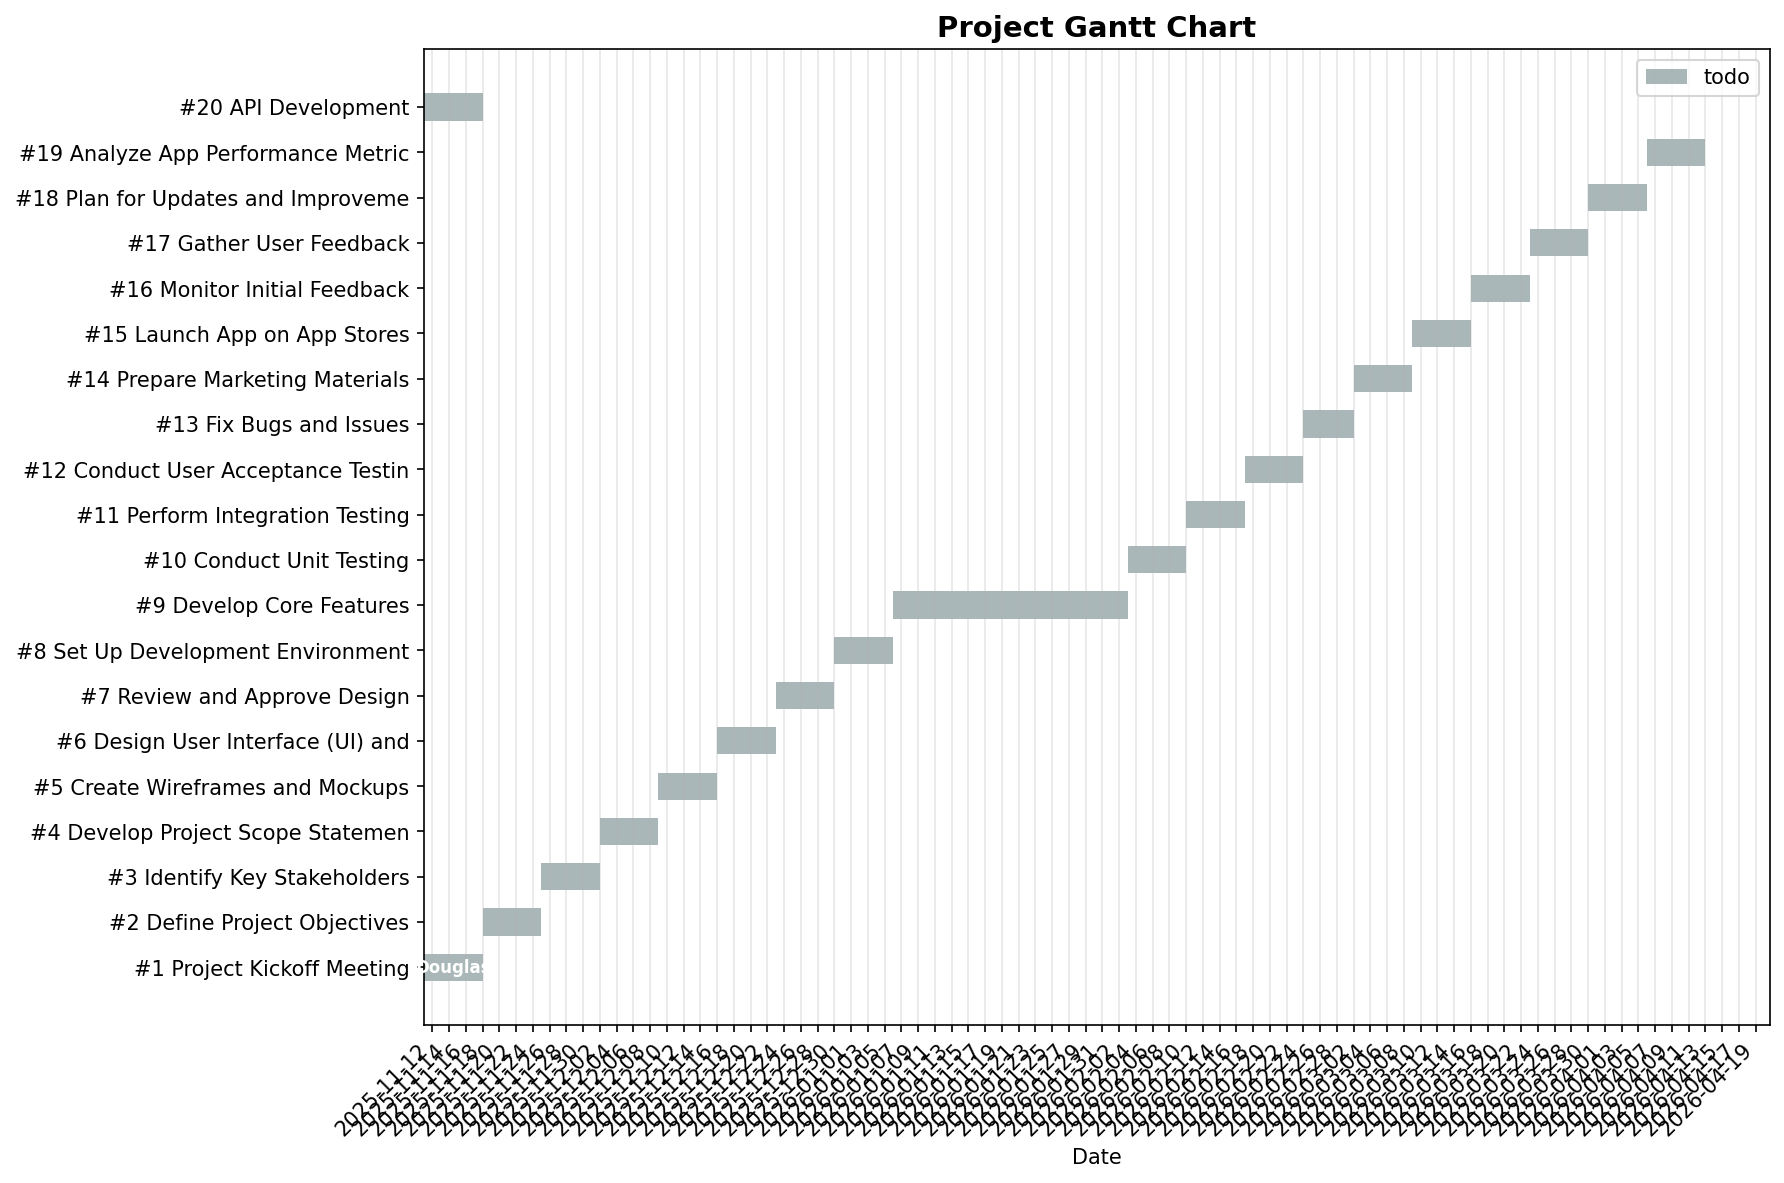
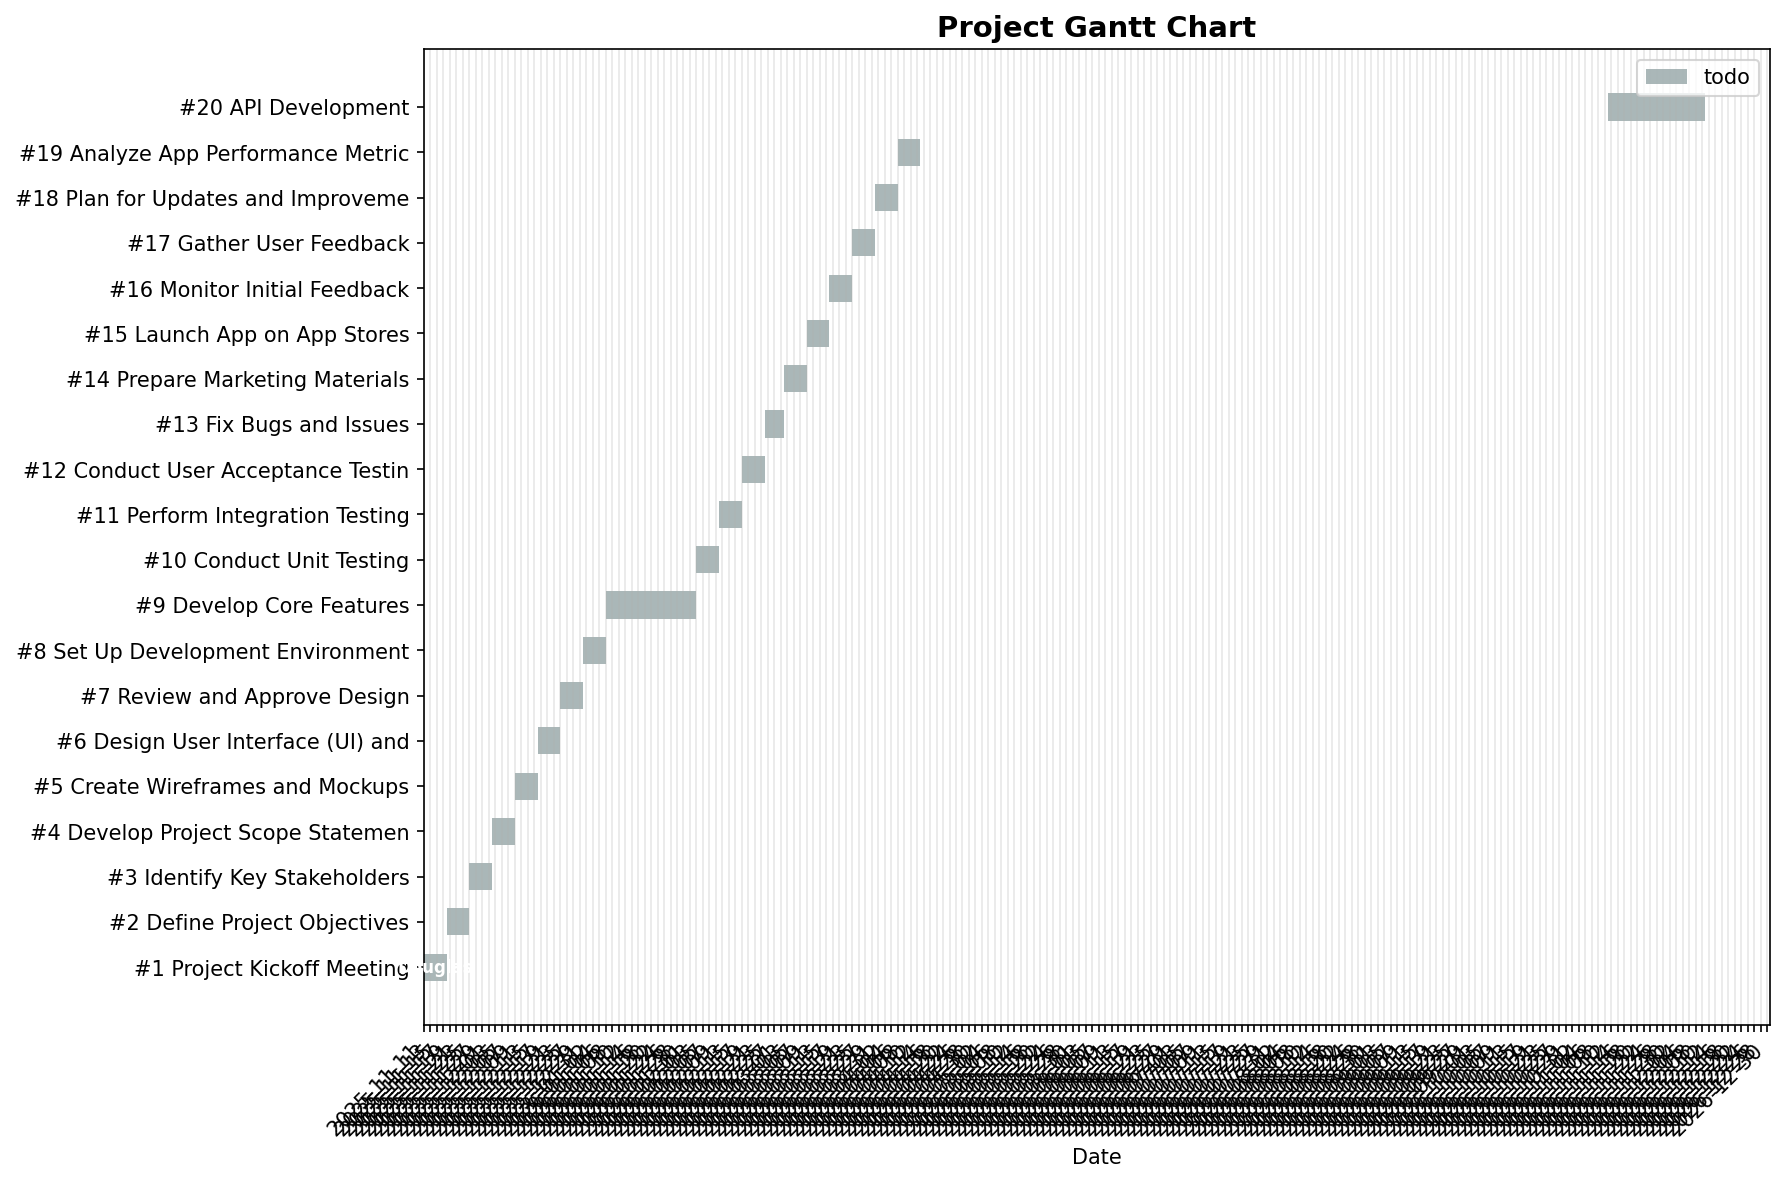
feat(plan/csv): add plan.csv mirror and CSV import command
Add a spreadsheet-friendly plan.csv mirror and CLI/sync support to let users edit the plan in Excel/Sheets and import changes back into 01_plan.json. Updated README with usage and validation rules for /plan --update-from-csv and pm plan --update-from-csv, added CLI hookup (import_plan_from_csv, save_plan) and help text. Import validates IDs, dependencies, and dates, rewrites the JSON source of truth, and regenerates the Gantt. Also regenerated project artifacts: updated task 20 dates, refreshed focus board timestamp, and updated gantt image.

diff --git a/src/pm_agent/tools.py b/src/pm_agent/tools.py
@@ -1,5 +1,6 @@
 """Tools for reading and writing project files."""
 
+import csv
 import json
 from datetime import datetime, date
 from pathlib import Path
@@ -18,6 +19,20 @@ from .analysis import (
 def get_project_root() -> Path:
     """Get the current project root directory."""
     return Path.cwd()
+
+
+PLAN_CSV_FIELDS = [
+    "id",
+    "title",
+    "assignee",
+    "start_date",
+    "due_date",
+    "status",
+    "dependencies",
+    "optimistic_days",
+    "likely_days",
+    "pessimistic_days",
+]
 
 
 def ensure_project_files():
@@ -46,6 +61,11 @@ def ensure_project_files():
     plan_path = root / "01_plan.json"
     if not plan_path.exists():
         plan_path.write_text("[]")
+        export_plan_to_csv(ProjectPlan())
+    else:
+        csv_path = root / "plan.csv"
+        if not csv_path.exists():
+            export_plan_to_csv(load_plan())
 
     # Create followups if not exists
     followups_path = root / "02_followups.json"
@@ -122,6 +142,112 @@ def save_plan(plan: ProjectPlan):
     plan_path = root / "01_plan.json"
 
     plan_path.write_text(json.dumps(plan.to_json_list(), indent=2))
+    export_plan_to_csv(plan)
+
+
+def _resolve_csv_path(csv_file: Optional[str] = None) -> Path:
+    root = get_project_root()
+    if csv_file:
+        csv_path = Path(csv_file)
+        if not csv_path.is_absolute():
+            csv_path = root / csv_path
+    else:
+        csv_path = root / "plan.csv"
+    csv_path.parent.mkdir(parents=True, exist_ok=True)
+    return csv_path
+
+
+def export_plan_to_csv(plan: ProjectPlan, csv_file: Optional[str] = None):
+    """Write the project plan to a CSV file for manual editing."""
+    csv_path = _resolve_csv_path(csv_file)
+    with open(csv_path, "w", encoding="utf-8", newline="") as handle:
+        writer = csv.DictWriter(handle, fieldnames=PLAN_CSV_FIELDS)
+        writer.writeheader()
+        for task in plan.tasks:
+            writer.writerow({
+                "id": task.id,
+                "title": task.title,
+                "assignee": task.assignee or "",
+                "start_date": task.start_date.isoformat() if task.start_date else "",
+                "due_date": task.due_date.isoformat() if task.due_date else "",
+                "status": task.status,
+                "dependencies": ",".join(str(dep) for dep in task.dependencies),
+                "optimistic_days": task.optimistic_days or "",
+                "likely_days": task.likely_days or "",
+                "pessimistic_days": task.pessimistic_days or "",
+            })
+
+
+def import_plan_from_csv(csv_file: Optional[str] = None) -> ProjectPlan:
+    """Load plan data from a CSV file and return a ProjectPlan object."""
+    csv_path = _resolve_csv_path(csv_file)
+    if not csv_path.exists():
+        raise FileNotFoundError(f"CSV file not found: {csv_path}")
+
+    def parse_date(value: Optional[str]) -> Optional[date]:
+        if not value:
+            return None
+        value = value.strip()
+        if not value:
+            return None
+        # Try ISO format first
+        try:
+            return date.fromisoformat(value)
+        except ValueError:
+            pass
+        # Try common alternatives (e.g., MM/DD/YYYY)
+        for fmt in ("%m/%d/%Y", "%m/%d/%y", "%Y/%m/%d"):
+            try:
+                return datetime.strptime(value, fmt).date()
+            except ValueError:
+                continue
+        raise ValueError(f"Invalid date format '{value}'. Use YYYY-MM-DD or MM/DD/YYYY.")
+
+    def parse_int(value: Optional[str]) -> Optional[int]:
+        if value is None:
+            return None
+        value = value.strip()
+        if not value:
+            return None
+        return int(float(value))
+
+    tasks: List[Task] = []
+    with open(csv_path, "r", encoding="utf-8", newline="") as handle:
+        reader = csv.DictReader(handle)
+        for row in reader:
+            if not row.get("id"):
+                continue
+            try:
+                task_id = int(row["id"])
+            except ValueError as exc:
+                raise ValueError(f"Invalid task ID '{row['id']}' in CSV") from exc
+
+            deps_str = (row.get("dependencies") or "").strip()
+            dependencies: List[int] = []
+            if deps_str:
+                for dep in deps_str.split(","):
+                    dep = dep.strip()
+                    if dep:
+                        try:
+                            dependencies.append(int(dep))
+                        except ValueError as exc:
+                            raise ValueError(f"Invalid dependency '{dep}' for task {task_id}") from exc
+
+            task = Task(
+                id=task_id,
+                title=row.get("title", "").strip() or f"Task {task_id}",
+                assignee=row.get("assignee") or None,
+                start_date=parse_date(row.get("start_date")),
+                due_date=parse_date(row.get("due_date")),
+                status=(row.get("status") or "todo").strip() or "todo",
+                dependencies=dependencies,
+                optimistic_days=parse_int(row.get("optimistic_days")),
+                likely_days=parse_int(row.get("likely_days")),
+                pessimistic_days=parse_int(row.get("pessimistic_days")),
+            )
+            tasks.append(task)
+
+    return ProjectPlan(tasks=tasks)
 
 
 def load_focus_board() -> FocusBoard:

diff --git a/src/pm_agent/cli.py b/src/pm_agent/cli.py
@@ -35,6 +35,8 @@ from .tools import (
     get_project_root,
     load_focus_board,
     save_focus_board,
+    import_plan_from_csv,
+    save_plan,
 )
 from .viz import generate_gantt, render_text_gantt
 
@@ -55,6 +57,7 @@ def show_help():
     console.print("  /status --week       Get AI weekly summary")
     console.print("  /plan                View the plan JSON")
     console.print("  /plan --edit         Edit plan in editor")
+    console.print("  /plan --update-from-csv [file]  Import plan edits from CSV")
     console.print("  /gantt               Display Gantt chart in CLI + save PNG")
     console.print("  /gantt --open        Display chart + save PNG + open file")
     console.print("  /followup <task>     Quick add task")
@@ -128,6 +131,29 @@ def handle_plan_command(args: list):
     """Handle /plan command."""
     edit_mode = "--edit" in args
     plan_path = get_project_root() / "01_plan.json"
+
+    # CSV import flag
+    csv_path = None
+    if "--csv-path" in args:
+        csv_idx = args.index("--csv-path")
+        if csv_idx + 1 < len(args):
+            csv_path = args[csv_idx + 1]
+    if "--update-from-csv" in args:
+        idx = args.index("--update-from-csv")
+        # optional path argument immediately after flag
+        if idx + 1 < len(args) and not args[idx + 1].startswith("--"):
+            csv_path = args[idx + 1]
+        console.print("[cyan]Importing plan data from CSV...[/cyan]")
+        try:
+            plan = import_plan_from_csv(csv_path)
+            save_plan(plan)
+            console.print("[green]OK[/green] Plan updated from CSV.")
+            console.print("[cyan]Regenerating Gantt chart...[/cyan]")
+            generate_gantt()
+            console.print("[green]OK[/green] Gantt chart updated!")
+        except Exception as e:
+            console.print(f"[red]Error importing CSV: {e}[/red]")
+        return
 
     if not plan_path.exists():
         console.print("[yellow]No plan found. Creating one...[/yellow]")
@@ -909,9 +935,27 @@ def status(week: bool = typer.Option(False, "--week", help="Get weekly summary")
 
 
 @app.command()
-def plan(edit: bool = typer.Option(False, "--edit", help="Edit plan in editor")):
+def plan(
+    edit: bool = typer.Option(False, "--edit", help="Edit plan in editor"),
+    update_from_csv: bool = typer.Option(
+        False,
+        "--update-from-csv",
+        help="Import plan data from CSV (default: plan.csv)"
+    ),
+    csv_path: Optional[str] = typer.Option(
+        None,
+        "--csv-path",
+        help="Path to plan CSV (used with --update-from-csv)"
+    ),
+):
     """Show or edit the project plan."""
-    args = ["--edit"] if edit else []
+    args = []
+    if edit:
+        args.append("--edit")
+    if update_from_csv:
+        args.append("--update-from-csv")
+        if csv_path:
+            args.append(csv_path)
     handle_plan_command(args)
 
 

diff --git a/README.md b/README.md
@@ -14,6 +14,7 @@ An intelligent CLI tool for managing projects using AI-powered automation with L
 
 - Critical path and Monte Carlo risk insights
 - Near-term focus board, artifact vault, and instant documentation export
+- Spreadsheet-friendly `plan.csv` mirror with slash command syncing
 
 ## Quick Install (TL;DR)
 
@@ -123,6 +124,7 @@ my-project/
 ├── 03_risks_issues.md          # Risks and issues log
 ├── 04_decisions.log            # Decision journal
 ├── 05_focus.json               # Near-term focus list snapshot
+├── plan.csv                    # Spreadsheet-friendly mirror of 01_plan.json
 ├── gantt_latest.png            # Auto-generated timeline
 ├── artifacts/                  # Artifacts vault (analysis, documentation, inputs, exports)
 └── .pm/                        # Agent memory (SQLite)
@@ -172,6 +174,7 @@ pm mobile-app-launch  # Enter REPL in specific project
 - `/status --week` - Get AI weekly summary
 - `/plan` - View the plan JSON
 - `/plan --edit` - Edit plan in editor
+- `/plan --update-from-csv [path]` - Import plan edits from CSV (defaults to `plan.csv`)
 - `/gantt` - Generate Gantt chart
 - `/gantt --open` - Generate and open chart
 - `/criticalpath` - Run critical path analysis
@@ -194,6 +197,7 @@ For quick one-off commands without entering the REPL:
 - `pm status --week` - Get AI weekly summary
 - `pm plan` - View the plan JSON
 - `pm plan --edit` - Edit plan in editor
+- `pm plan --update-from-csv --csv-path plan.csv` - Import plan updates from CSV
 - `pm gantt` - Generate Gantt chart
 - `pm gantt --open` - Generate and open chart
 - `pm criticalpath` - Critical path analysis
@@ -204,6 +208,12 @@ For quick one-off commands without entering the REPL:
 - `pm artifacts` - List stored artifacts
 - `pm followup "task" --due DATE --assign NAME` - Quick task add
 - `pm archive` - Archive the current project
+
+### Editing the Plan via CSV
+- `plan.csv` is regenerated automatically every time the agent updates `01_plan.json`, so you can open it in Excel/Sheets for bulk edits.
+- After editing the CSV, sync it back with `/plan --update-from-csv [optional_csv_path]` or `pm plan --update-from-csv --csv-path my_plan.csv`.
+- The import validates IDs, dependencies, and dates, rewrites the JSON source of truth, and regenerates the Gantt chart so every artifact reflects your spreadsheet edits.
+- Keep the CSV header row intact (`id,title,assignee,...`). Leave cells blank to clear values; list dependencies as comma-separated IDs (e.g., `1,2,5`).
 
 ## Project File Structure
 
